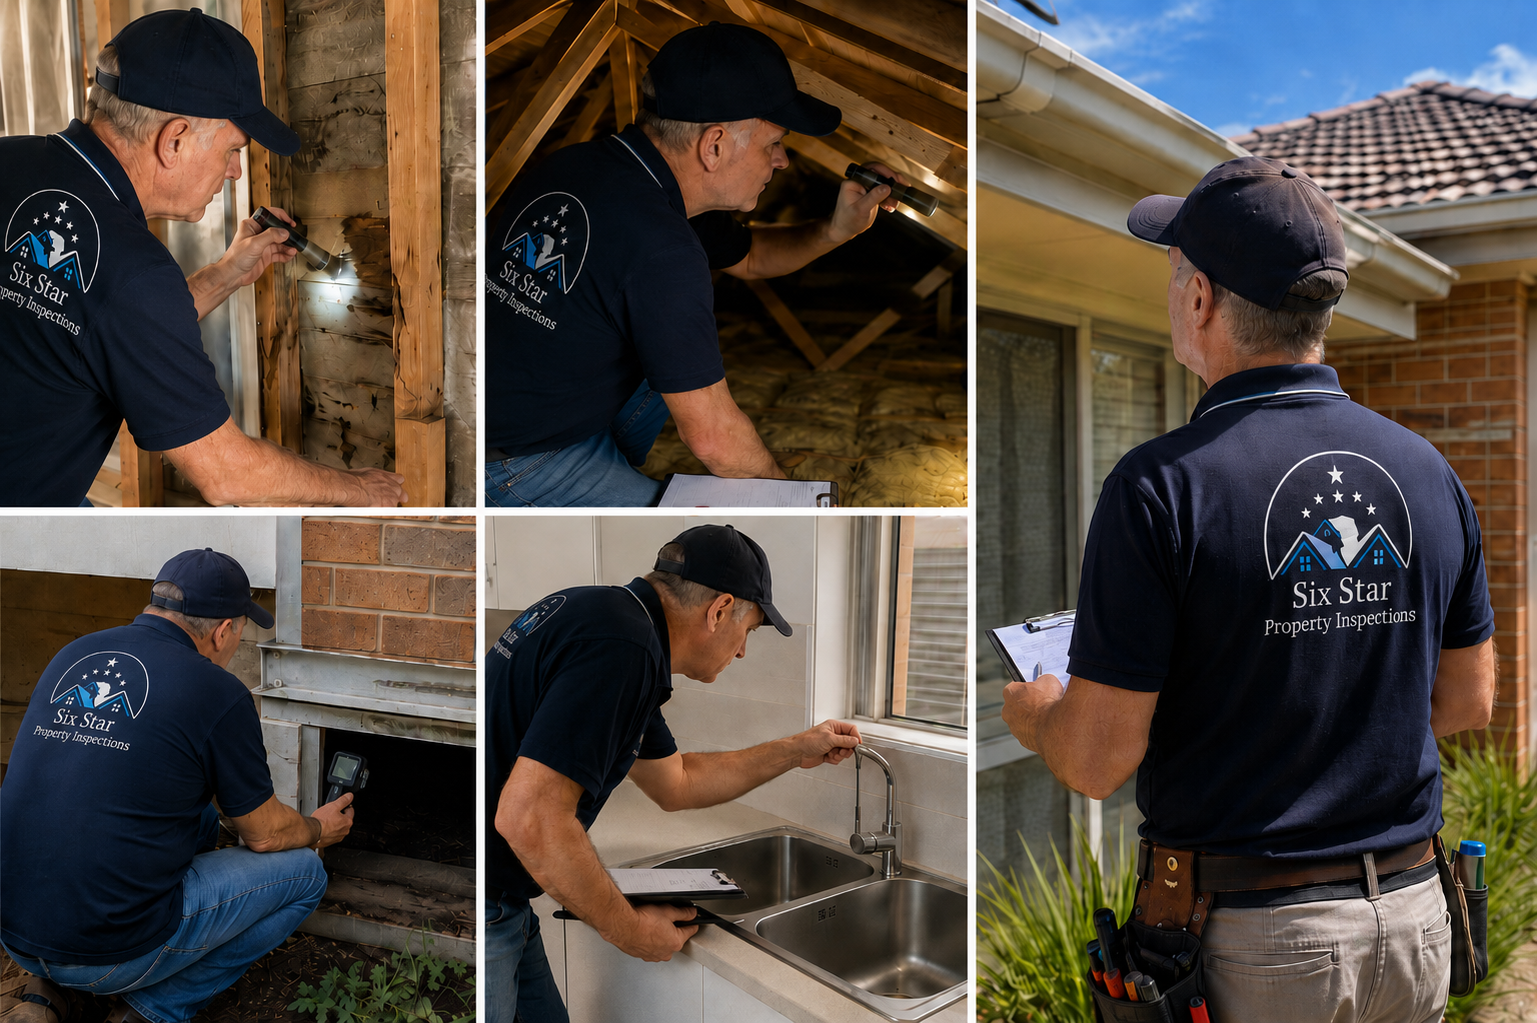
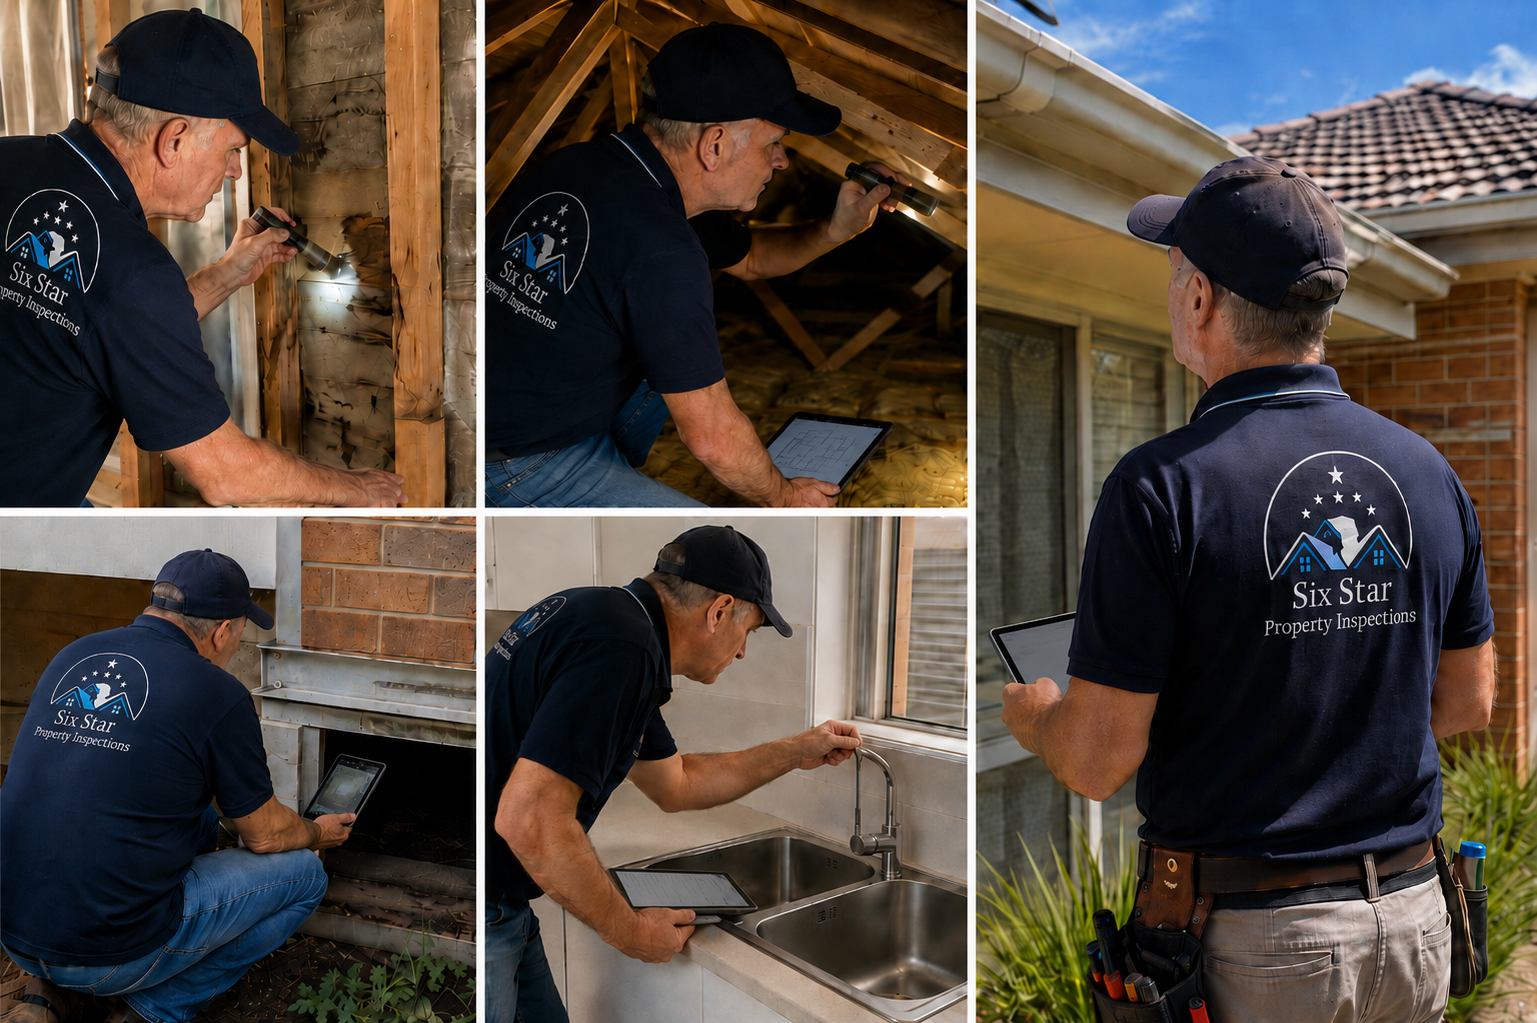
Update footer credit and replace brett image
Clarify footer attribution by changing "Created by" to "Website created by" in index.html. Also replace assets/brett.png with an updated image (binary file updated).

diff --git a/index.html b/index.html
@@ -54,7 +54,7 @@
     <div class="contact__aside"><div class="section-kicker"><span>06</span> Contact Brett</div><h2>Ready for<br><em>peace of mind?</em></h2><p>Share a few details about the property and your email app will open with a complete message ready to send directly to Brett.</p><a class="email-link" href="mailto:[email redacted]"><small>Email</small><strong>[email redacted]</strong><span>↗</span></a><div class="contact__licences"><span>Victorian Builder Licence</span><strong>DB-U 7816</strong><span>HIA Membership</span><strong>511877</strong></div></div>
     <form class="contact__form" id="email-form"><div class="form-heading"><span>Inspection enquiry</span><small>All fields except phone and property are required</small></div><label><span>Your name</span><input name="name" type="text" placeholder="e.g. Alex Morgan" required></label><div class="form-row"><label><span>Your email</span><input name="email" type="email" placeholder="[email redacted]" required></label><label><span>Phone</span><input name="phone" type="tel" placeholder="04xx xxx xxx"></label></div><label><span>Property suburb or address</span><input name="property" type="text" placeholder="Where is the property?"></label><label><span>Body text</span><textarea name="message" rows="5" placeholder="Hi Brett, I’d like a quote for a combined building and pest inspection…" required></textarea></label><button type="submit">Send email to Brett <span>↗</span></button><p class="form-note">This button opens your device’s email app. Your message is not stored by this website.</p></form>
   </section>
-  <footer><a class="brand" href="#home"><span class="brand-mark brand-mark--compact" aria-hidden="true"><svg viewBox="0 0 180 180" xmlns="http://www.w3.org/2000/svg"><circle class="logo-ring" cx="90" cy="89" r="79"/><g class="logo-stars"><text x="90" y="27">★</text><text x="66" y="42">★</text><text x="114" y="42">★</text><text x="46" y="59">★</text><text x="90" y="51">★</text><text x="134" y="59">★</text></g><path class="logo-mountain logo-mountain--left" d="M44 91 72 56 89 77 103 61 129 92Z"/><path class="logo-mountain logo-mountain--right" d="m72 91 31-38 31 38Z"/><path class="logo-house logo-house--left" d="M24 106 52 77l28 29v18H24Z"/><path class="logo-roof" d="M19 108 52 72l34 36"/><path class="logo-house logo-house--centre" d="M62 91 89 61l27 30v34H62Z"/><path class="logo-roof logo-roof--centre" d="M57 94 89 56l32 38"/><path class="logo-house logo-house--right" d="m100 105 28-28 28 28v19h-56Z"/><path class="logo-roof" d="m94 108 34-36 34 36"/><g class="logo-windows"><path d="M42 98h13v17H42zM46 98v17M42 106h13"/><path d="M84 93h12v18H84zM90 93v18M84 102h12"/><path d="M122 98h13v17h-13zM128.5 98v17M122 106h13"/></g><text class="logo-title" x="90" y="151">Six Star</text></svg></span><span><strong>SIX STAR</strong><small>PROPERTY INSPECTIONS</small></span></a><p>Building &amp; pest inspections across Melbourne Metro &amp; Regional Victoria.</p><div><span id="copyright"></span><span class="owner-credit">Owner: Brett Stephens <small>Created by <a href="mailto:[email redacted]">[email redacted]</a></small></span><span>DB-U 7816 • HIA 511877</span></div></footer>
+  <footer><a class="brand" href="#home"><span class="brand-mark brand-mark--compact" aria-hidden="true"><svg viewBox="0 0 180 180" xmlns="http://www.w3.org/2000/svg"><circle class="logo-ring" cx="90" cy="89" r="79"/><g class="logo-stars"><text x="90" y="27">★</text><text x="66" y="42">★</text><text x="114" y="42">★</text><text x="46" y="59">★</text><text x="90" y="51">★</text><text x="134" y="59">★</text></g><path class="logo-mountain logo-mountain--left" d="M44 91 72 56 89 77 103 61 129 92Z"/><path class="logo-mountain logo-mountain--right" d="m72 91 31-38 31 38Z"/><path class="logo-house logo-house--left" d="M24 106 52 77l28 29v18H24Z"/><path class="logo-roof" d="M19 108 52 72l34 36"/><path class="logo-house logo-house--centre" d="M62 91 89 61l27 30v34H62Z"/><path class="logo-roof logo-roof--centre" d="M57 94 89 56l32 38"/><path class="logo-house logo-house--right" d="m100 105 28-28 28 28v19h-56Z"/><path class="logo-roof" d="m94 108 34-36 34 36"/><g class="logo-windows"><path d="M42 98h13v17H42zM46 98v17M42 106h13"/><path d="M84 93h12v18H84zM90 93v18M84 102h12"/><path d="M122 98h13v17h-13zM128.5 98v17M122 106h13"/></g><text class="logo-title" x="90" y="151">Six Star</text></svg></span><span><strong>SIX STAR</strong><small>PROPERTY INSPECTIONS</small></span></a><p>Building &amp; pest inspections across Melbourne Metro &amp; Regional Victoria.</p><div><span id="copyright"></span><span class="owner-credit">Owner: Brett Stephens <small>Website created by <a href="mailto:[email redacted]">[email redacted]</a></small></span><span>DB-U 7816 • HIA 511877</span></div></footer>
 </main>
 <script src="script.js?v=4"></script>
 </body>